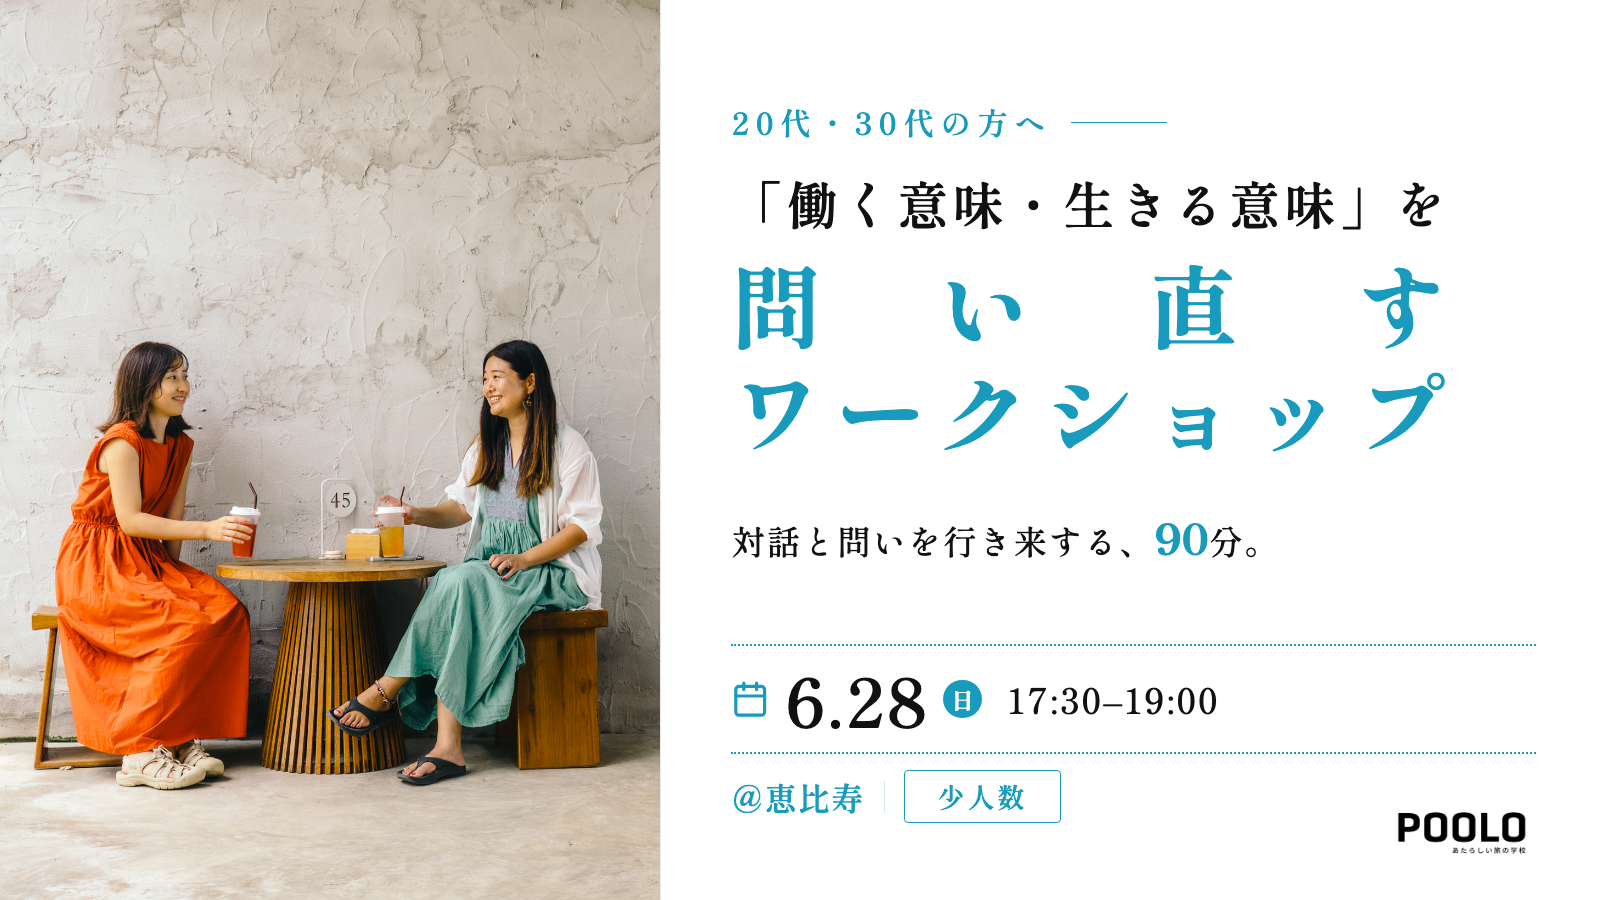
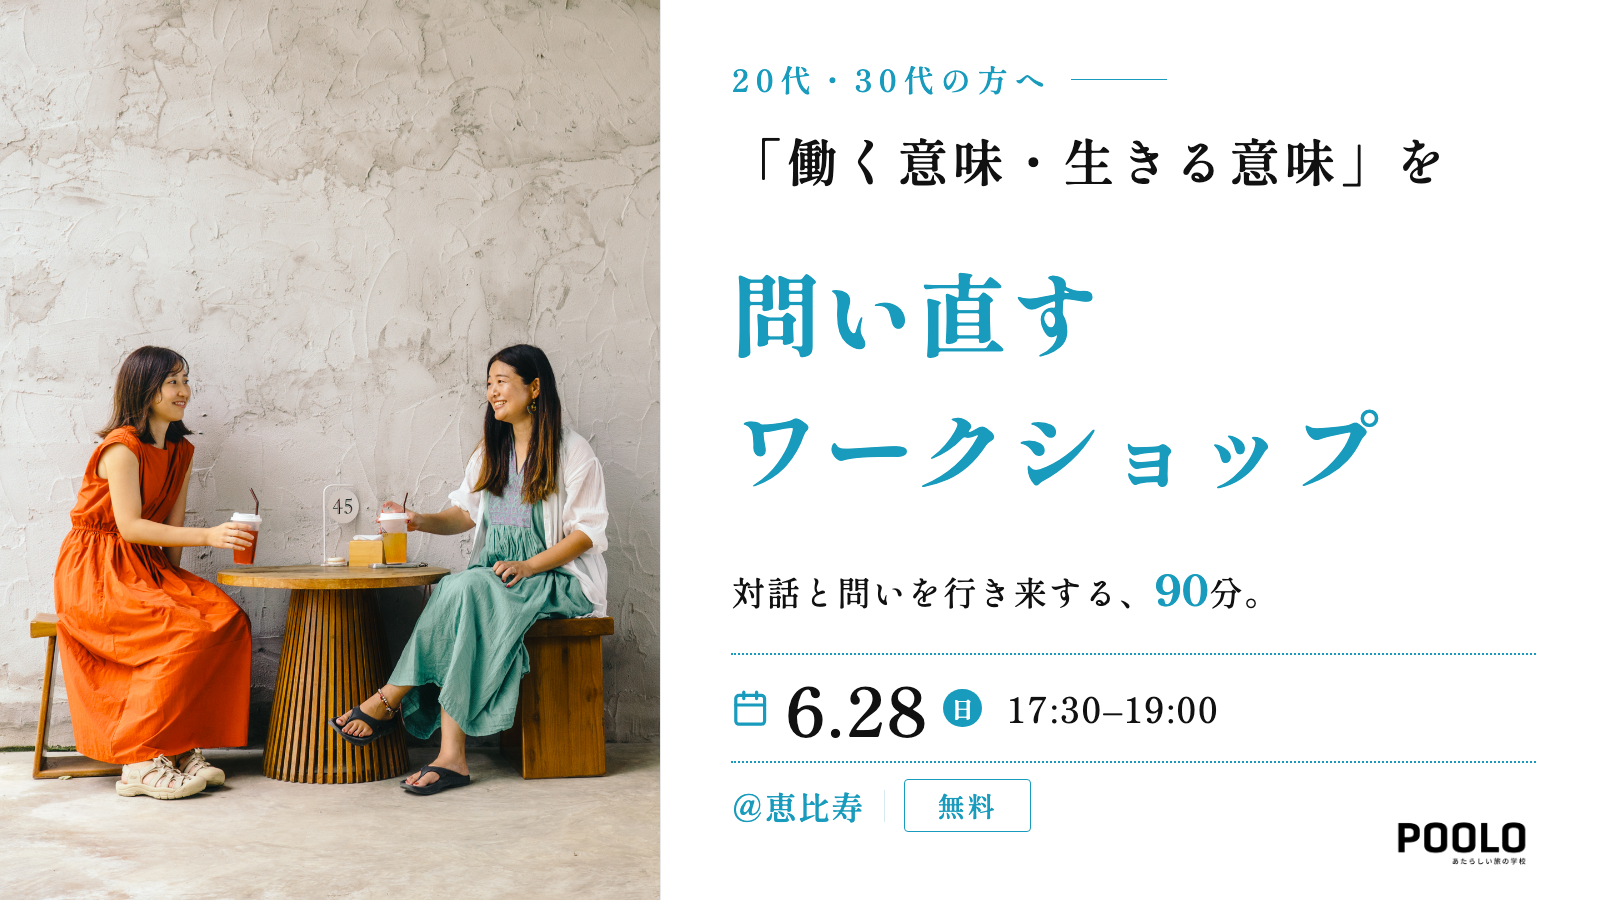
Update OG image to match hero (left-aligned title, 無料 pill)

diff --git a/event-2030s-v01-260628/og-source.html b/event-2030s-v01-260628/og-source.html
@@ -17,9 +17,9 @@
   .hd-tag { font-family: 'Shippori Mincho B1', serif; font-size: 1.9cqi; letter-spacing: 0.22em; font-weight: 600; color: #189BBC; line-height: 1; }
   .hd-tag-line { flex: 0 0 auto; width: 6cqi; height: 1px; background: #189BBC; }
   .hd-title { font-family: 'Shippori Mincho B1', serif; line-height: 1.08; width: max-content; }
-  .hd-title-line { display: block; text-align: justify; text-align-last: justify; text-justify: inter-character; }
-  .hd-title-row1 { font-size: 3.2cqi; font-weight: 600; color: #111111; letter-spacing: 0.08em; margin-bottom: 0.4em; white-space: nowrap; }
-  .hd-title-row2 { font-size: 5.6cqi; font-weight: 800; color: #189BBC; letter-spacing: 0.04em; line-height: 1.18; }
+  .hd-title-line { display: block; text-align: left; text-align-last: left; }
+  .hd-title-row1 { font-size: 3.2cqi; font-weight: 600; color: #111111; letter-spacing: 0.08em; margin-bottom: 1.1em; white-space: nowrap; }
+  .hd-title-row2 { font-size: 5.6cqi; font-weight: 800; color: #189BBC; letter-spacing: 0.04em; line-height: 1.5; }
   .hd-sub { font-family: 'Shippori Mincho B1', serif; font-size: 2.1cqi; color: #111111; letter-spacing: 0.05em; line-height: 1.7; font-weight: 500; }
   .hd-sub-accent { color: #189BBC; font-weight: 800; font-family: 'Shippori Mincho B1', serif; font-size: 1.25em; letter-spacing: 0; }
   .hd-date-zoom { display: flex; flex-direction: column; justify-content: center; gap: 1cqi; }
@@ -67,7 +67,7 @@
         <div class="hd-zoom-row">
           <span class="hd-zoom-label">＠恵比寿</span>
           <span class="hd-zoom-divider"></span>
-          <span class="hd-free-pill">少人数</span>
+          <span class="hd-free-pill">無料</span>
         </div>
       </div>
       <img class="hd-brand-logo" src="images/poolo_logo03.png" alt="POOLO">